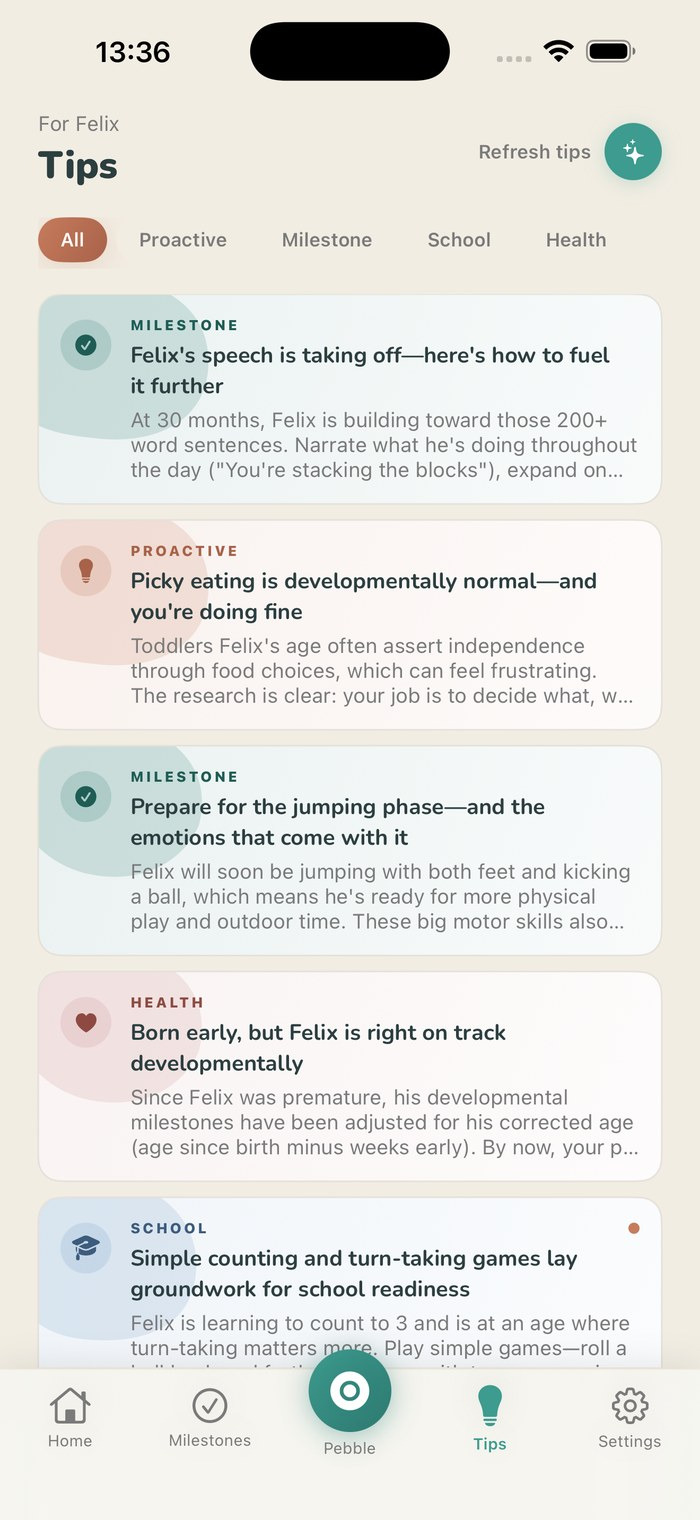
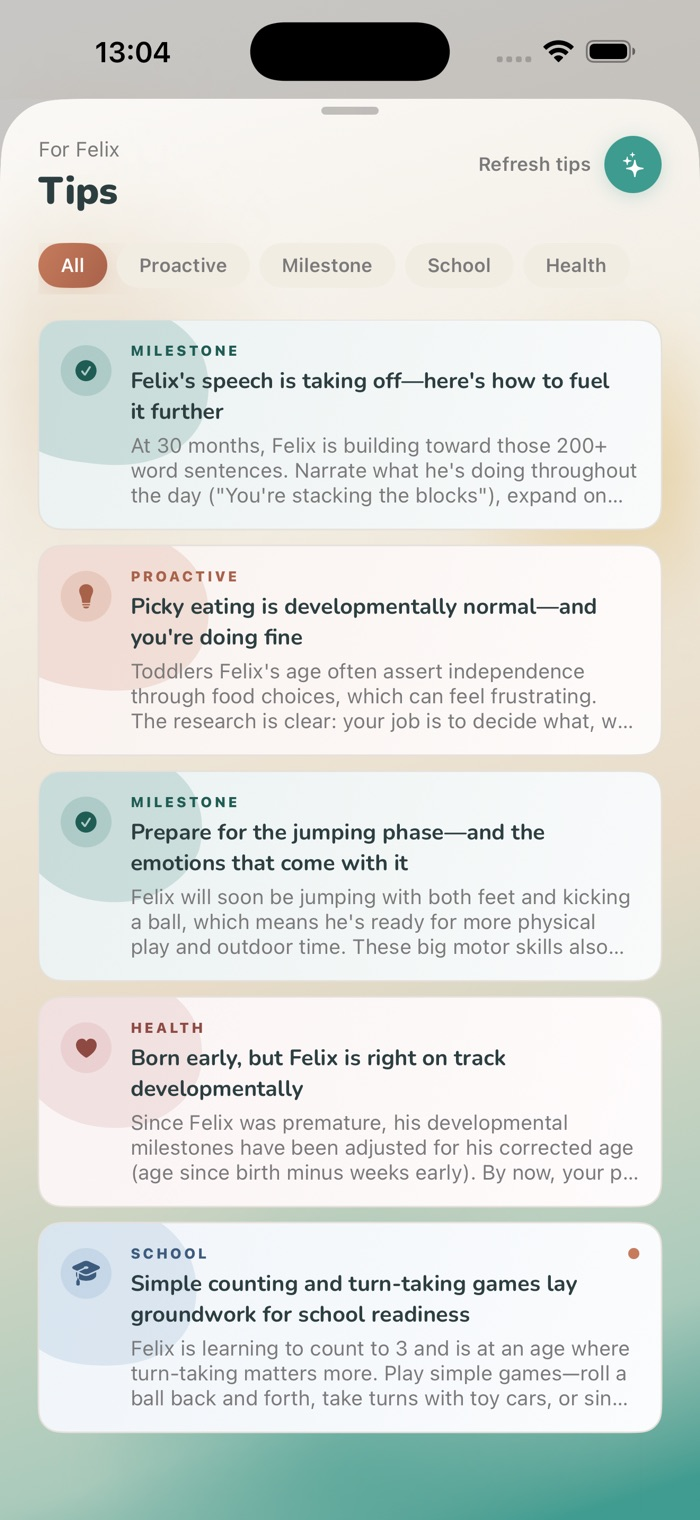
Showcase: refresh 3 screenshots + add Activities & Portal step
Screenshots refreshed from the 21 May iPhone 17 Pro Max capture
batch — converted PNG (1320×2868, ~2-4 MB) → JPG (700×1520, 80%
quality, ~170-230 KB) to match the existing assets pattern:
  - dashboard.jpg  (new)
  - pebble.jpg     (new)
  - tips.jpg       (new)
  - activities.jpg (NEW — for the 6th step)
milestones.jpg, pediatrician.jpg and welcome.jpg kept as-is — no
new captures in the 21 May batch.

New 6th showcase step "Activities & Portal · Plan life together."
wired into all three blocks per the existing per-step pattern:
  1. Desktop scroll-driven showcase — new <div id="ss-5"> img +
     new <div class="feature-step" data-screen="5"> inserted
     between Tips and Pediatrician (matching the design-sandbox/21
     narrative order). JS reads steps/screens dynamically via
     querySelectorAll + integer index — picks up ss-5 automatically.
  2. Mobile carousel — new <div class="ms-slide"> with the
     activities image inserted between Tips and Pediatrician
     slides; 6th <button class="ms-dot" data-index="5"> added to
     the ms-dots row.
  3. Mobile feature cards — new <div class="mobile-feature-card">
     with id="mf-screen-5" inserted between Tips and Pediatrician
     cards. The mf-phone-inner clone-from-#ss-N JS resolves the
     image automatically at runtime.

diff --git a/index.html b/index.html
@@ -2454,6 +2454,10 @@
           <div class="s-screen" id="ss-4">
             <img class="s-screen-img" src="assets/screens/pediatrician.jpg" alt="Pediatrician summary export" loading="lazy">
           </div>
+          <!-- ss-5 screenshot — 2026-05-21: new Activities & Portal step. -->
+          <div class="s-screen" id="ss-5">
+            <img class="s-screen-img" src="assets/screens/activities.jpg" alt="Activities and Family Portal" loading="lazy">
+          </div>
 
         </div>
       </div>
@@ -2491,6 +2495,13 @@
           <p>Proactive, personalized tips refreshed weekly based on your child's unique trajectory — for your child, and for whoever's caring for them.</p>
         </div>
       </div>
+      <div class="feature-step" data-screen="5">
+        <div class="feature-step-content">
+          <div class="feature-label">Activities &amp; Portal</div>
+          <h3>Plan life together.</h3>
+          <p>Trips, weekend plans, birthdays and anniversaries &mdash; shared with everyone in your family.</p>
+        </div>
+      </div>
       <div class="feature-step" data-screen="4">
         <div class="feature-step-content">
           <div class="feature-label">Pediatrician summary</div>
@@ -2511,6 +2522,7 @@
       <button type="button" class="ms-dot" data-index="2"></button>
       <button type="button" class="ms-dot" data-index="3"></button>
       <button type="button" class="ms-dot" data-index="4"></button>
+      <button type="button" class="ms-dot" data-index="5"></button>
     </div>
     <div class="ms-track" id="msTrack">
       <!-- Welcome slide is hidden for now via display:none on .ms-slide-hidden;
@@ -2553,6 +2565,14 @@
           <div class="feature-label">Tips &amp; Guidance</div>
           <h3>What to focus on next.</h3>
           <p>Proactive, personalized tips refreshed weekly &mdash; for your child, and for whoever's caring for them.</p>
+        </div>
+      </div>
+      <div class="ms-slide">
+        <div class="ms-phone"><img src="assets/screens/activities.jpg" alt="Activities and Family Portal" loading="lazy"></div>
+        <div class="ms-text">
+          <div class="feature-label">Activities &amp; Portal</div>
+          <h3>Plan life together.</h3>
+          <p>Trips, weekend plans, birthdays and anniversaries &mdash; shared with everyone in your family.</p>
         </div>
       </div>
       <div class="ms-slide">
@@ -2602,6 +2622,12 @@
       <div class="mf-label">Tips & Guidance</div>
       <h3>What to focus on next.</h3>
       <p>Proactive, personalized tips refreshed weekly — for your child, and for whoever's caring for them.</p>
+    </div>
+    <div class="mobile-feature-card">
+      <div class="mf-phone"><div class="mf-phone-inner" id="mf-screen-5"></div></div>
+      <div class="mf-label">Activities &amp; Portal</div>
+      <h3>Plan life together.</h3>
+      <p>Trips, weekend plans, birthdays and anniversaries &mdash; shared with everyone in your family.</p>
     </div>
     <div class="mobile-feature-card">
       <div class="mf-phone"><div class="mf-phone-inner" id="mf-screen-4"></div></div>